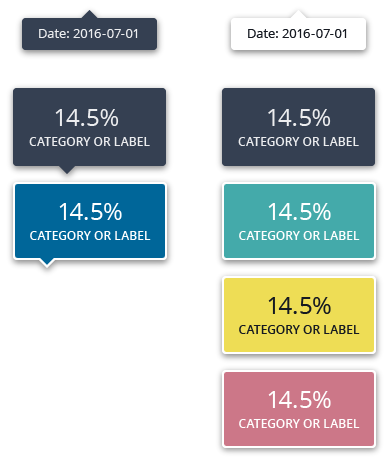
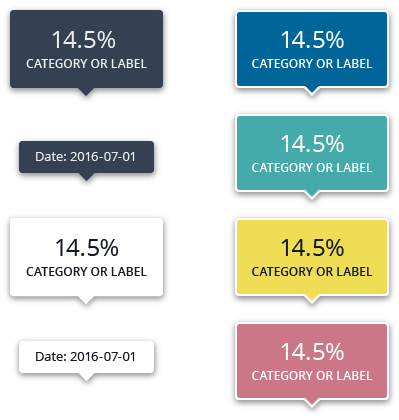
Revise tooltip pattern.

diff --git a/p_tooltip.php b/p_tooltip.php
@@ -20,9 +20,15 @@
 		<article id="guidelines">
 			<div id="container">
 				<section>
-					
-					<img src="img/guide/p_tooltip_01.png" alt="Basic Tooltip">
+					<img src="img/guide/p_tooltip_01.png" alt="Tooltip Patterns">
 				</section>
+				<section>
+					<h2>Acceptable Deviation</h2>
+					<div class="desc_pattern">
+						<p>Tooltips can be displayed without a carrot, if there is a technology limitation.</p>
+					</div>
+					<img src="img/guide/p_tooltip_02.png" alt="Tooltip Pattern Deviation">
+
 				<aside>
 					<dl class="related">
 						<dt>Related Content</dt>
@@ -41,15 +47,15 @@
 								<dt>Light</dt>
 								<dd>Text: 13px (10pt) <span title="Gray 900" class="theme">#151921</span></dd>
 								<dd>Background: #FFFFFF</dd>
+								<!-- -->
+								<dt>Accent Color</dt>
+								<dd>Border: <span class="pxrem">2px</span> #FFFFFF</dd>
+								<dd>Background: Matches Data</dd>
 							</dl>
 						</dd>
 						<dt>Data Tooltip</dt>
 						<dd>
 							<dl class="sub">
-								<dt>Accent Color</dt>
-								<dd>Border: <span class="pxrem">2px</span> #FFFFFF</dd>
-								<dd>Background: Matches Data</dd>
-								<!-- -->
 								<dt>Data Value</dt>
 								<dd>Text: 24pt (18pt)</dd>
 								<!-- -->
